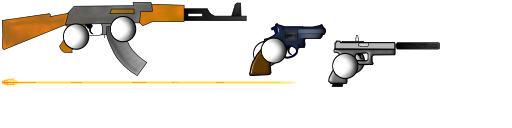
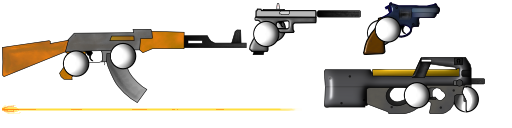
P90 and building changes.

diff --git a/src/co/uk/epicguru/map/building/BuildingManager.java b/src/co/uk/epicguru/map/building/BuildingManager.java
@@ -2,12 +2,14 @@ package co.uk.epicguru.map.building;
 
 import java.util.ArrayList;
 
+import com.badlogic.gdx.Input.Keys;
 import com.badlogic.gdx.graphics.g2d.Batch;
 import com.badlogic.gdx.math.Rectangle;
 import com.badlogic.gdx.math.Vector2;
 
 import co.uk.epicguru.input.Input;
 import co.uk.epicguru.main.Constants;
+import co.uk.epicguru.map.building.instances.WoodenBeam;
 import co.uk.epicguru.map.building.instances.WoodenFloor;
 
 public class BuildingManager {
@@ -49,10 +51,13 @@ public class BuildingManager {
 
 	public static void update(float delta){
 
-		if(placing == false){
+		if(placing == true){
 			if(placingObject == null){
-				placingObject = new WoodenFloor(new Vector2(Input.getMouseWorldX(), 0));					
-				//placingObject = new WoodenBeam(new Vector2(Input.getMouseWorldX(), 0));					
+				if(Input.isKeyDown(Keys.SPACE)){
+					placingObject = new WoodenFloor(new Vector2(Input.getMouseWorldX(), 0));					
+				}else{
+					placingObject = new WoodenBeam(new Vector2(Input.getMouseWorldX(), 0));					
+				}
 			}else{
 				// Do nothing, already set.
 			}
@@ -122,9 +127,9 @@ public class BuildingManager {
 						float placingWidth = placingObject.texture.getRegionWidth() / Constants.PPM;
 
 						// Within right side bounds
-						if(mousePos.x < rightSide + placingWidth / 2 && mousePos.x >= rightSide - placingWidth / 2){							
+						if(mousePos.x < rightSide + placingWidth / 2 && mousePos.x >= rightSide - placingWidth / 2 && mousePos.y < object.body.getPosition().y + object.texture.getRegionHeight() / Constants.PPM * 2 && mousePos.y > object.body.getPosition().y - object.texture.getRegionHeight() / Constants.PPM * 2){							
 							foundEdge = true;
-							snapValue.a.set(rightSide + placingWidth / 2, 0);
+							snapValue.a.set(rightSide + placingWidth / 2, object.body.getPosition().y - placingObject.texture.getRegionHeight() / Constants.PPM / 2);
 							snapValue.b = isValidPos(objects);
 							if(place){
 								if(snapValue.b){
@@ -139,10 +144,10 @@ public class BuildingManager {
 									}
 								}
 							}
-						}else if(mousePos.x > leftSide - placingWidth / 2 && mousePos.x <= leftSide + placingWidth / 2){	
+						}else if(mousePos.x > leftSide - placingWidth / 2 && mousePos.x <= leftSide + placingWidth / 2 && mousePos.y < object.body.getPosition().y + object.texture.getRegionHeight() / Constants.PPM * 2 && mousePos.y > object.body.getPosition().y - object.texture.getRegionHeight() / Constants.PPM * 2){	
 							// Left side bounds
 							foundEdge = true;
-							snapValue.a.set(leftSide - placingWidth / 2, 0);
+							snapValue.a.set(leftSide - placingWidth / 2, object.body.getPosition().y - placingObject.texture.getRegionHeight() / Constants.PPM / 2);
 							snapValue.b = isValidPos(objects);
 							if(place){
 								if(snapValue.b){
@@ -166,46 +171,51 @@ public class BuildingManager {
 				snapValue.b = isValidPos(objects);
 			}
 		}
-		
+
 		// BEAMS
 		if(placingObject instanceof BuildingBeam){
 			snapValue.a.set(mousePos.x, 0);
 			snapValue.b = false;
-			
+
 			for(BuildingObject object : objects){
 				if(object instanceof BuildingFloor){
 					// FLOOR
 					BuildingFloor floor = (BuildingFloor)object;
-					boolean hasRight = floor.connectedRight != null;
-					boolean hasLeft = floor.connectedLeft != null;
-					if(hasRight){
-						if(mousePos.x > floor.body.getPosition().x){
-							if(mousePos.x < floor.body.getPosition().x + floor.texture.getRegionWidth()){
-								if(mousePos.y > floor.getBody().getPosition().y){
-									if(mousePos.y < floor.getBody().getPosition().y + placingObject.texture.getRegionHeight() / Constants.PPM){
-										// We are in bounds
-										snapValue.a.set(object.body.getPosition().x + object.texture.getRegionWidth() / Constants.PPM / 2, object.body.getPosition().y + object.texture.getRegionHeight() / Constants.PPM / 2);
-										snapValue.b = true;
-									}
+					if(mousePos.x > floor.body.getPosition().x){
+						if(mousePos.x < floor.body.getPosition().x + floor.texture.getRegionWidth() / Constants.PPM){
+							if(mousePos.y > floor.getBody().getPosition().y){
+								if(mousePos.y < floor.getBody().getPosition().y + placingObject.texture.getRegionHeight() / Constants.PPM){
+									// We are in bounds
+									snapValue.a.set(object.body.getPosition().x + object.texture.getRegionWidth() / Constants.PPM / 2, object.body.getPosition().y + object.texture.getRegionHeight() / Constants.PPM / 2);
+									snapValue.b = isValidPos(objects);
 								}
 							}
 						}
-					}else if(hasLeft){
-						if(mousePos.x < floor.body.getPosition().x){
-							if(mousePos.x > floor.body.getPosition().x - floor.texture.getRegionWidth()){
-								if(mousePos.y > floor.getBody().getPosition().y){
-									if(mousePos.y < floor.getBody().getPosition().y + placingObject.texture.getRegionHeight() / Constants.PPM){
-										// We are in bounds
-										snapValue.a.set(object.body.getPosition().x - object.texture.getRegionWidth() / Constants.PPM / 2, object.body.getPosition().y + object.texture.getRegionHeight() / Constants.PPM / 2);
-										snapValue.b = true;
-									}
+					}
+					if(mousePos.x < floor.body.getPosition().x){
+						if(mousePos.x > floor.body.getPosition().x - floor.texture.getRegionWidth() / Constants.PPM){
+							if(mousePos.y > floor.getBody().getPosition().y){
+								if(mousePos.y < floor.getBody().getPosition().y + placingObject.texture.getRegionHeight() / Constants.PPM){
+									// We are in bounds
+									snapValue.a.set(object.body.getPosition().x - object.texture.getRegionWidth() / Constants.PPM / 2, object.body.getPosition().y + object.texture.getRegionHeight() / Constants.PPM / 2);
+									snapValue.b = isValidPos(objects);
 								}
 							}
 						}
 					}
 				}
+				if(object instanceof BuildingBeam){
+					if(object == placingObject)
+						continue;
+					rect.set(object.body.getPosition().x - placingObject.texture.getRegionWidth() / Constants.PPM / 2, object.body.getPosition().y + object.texture.getRegionHeight() / Constants.PPM / 2, placingObject.texture.getRegionWidth() / Constants.PPM * 2, placingObject.texture.getRegionHeight() / Constants.PPM);
+					if(rect.contains(mousePos)){
+						// Good to go on top of beam.
+						snapValue.a.set(object.body.getPosition().x, object.body.getPosition().y + object.texture.getRegionHeight() / Constants.PPM / 2);
+						snapValue.b = isValidPos(objects);
+					}
+				}
 			}
-			
+
 		}
 
 		return snapValue;
@@ -229,7 +239,7 @@ public class BuildingManager {
 		}
 		return validPos;
 	}
-	
+
 	private static BuildingObject getFloorToLeft(ArrayList<BuildingObject> objects){
 		float x = placingObject.body.getPosition().x;
 		for(BuildingObject object : objects){
@@ -241,7 +251,7 @@ public class BuildingManager {
 		}
 		return null;
 	}
-	
+
 	private static BuildingObject getFloorToRight(ArrayList<BuildingObject> objects){
 		float x = placingObject.body.getPosition().x;
 		for(BuildingObject object : objects){

diff --git a/src/co/uk/epicguru/map/building/BuildingFloor.java b/src/co/uk/epicguru/map/building/BuildingFloor.java
@@ -36,6 +36,7 @@ public abstract class BuildingFloor extends BuildingObject {
 		FixtureDef fixture = new FixtureDef();
 		fixture.shape = shape;
 		fixture.filter.groupIndex = -123;
+		fixture.isSensor = true;
 		setBody(Day100.map.world.createBody(def));
 		getBody().createFixture(fixture);
 	}
@@ -68,6 +69,7 @@ public abstract class BuildingFloor extends BuildingObject {
 	public void place(Vector2 position){
 		getBody().setTransform(position.set(position.x, position.y + texture.getRegionHeight() / 2 / Constants.PPM), 0);
 		placed = true;
+		getBody().getFixtureList().get(0).setSensor(false);
 	}
 	
 	public void update(float delta){

diff --git a/src/co/uk/epicguru/map/building/BuildingBeam.java b/src/co/uk/epicguru/map/building/BuildingBeam.java
@@ -30,6 +30,7 @@ public abstract class BuildingBeam extends BuildingObject {
 		FixtureDef fixture = new FixtureDef();
 		fixture.shape = shape;
 		fixture.filter.groupIndex = -123;
+		fixture.isSensor = true;
 		setBody(Day100.map.world.createBody(def));
 		getBody().createFixture(fixture);
 	}
@@ -44,6 +45,7 @@ public abstract class BuildingBeam extends BuildingObject {
 	public void place(Vector2 position){
 		getBody().setTransform(position.set(position.x, position.y + texture.getRegionHeight() / 2 / Constants.PPM), 0);
 		placed = true;
+		getBody().getFixtureList().get(0).setSensor(false);
 	}
 	
 	public void update(float delta){

diff --git a/src/co/uk/epicguru/map/Map.java b/src/co/uk/epicguru/map/Map.java
@@ -133,7 +133,7 @@ public final class Map {
 
 	private void setupLighting(){
 		rayHandler = new RayHandler(world);
-		sun = new DirectionalLight(rayHandler, Constants.RAYS * 2, new Color(0.0f, 0.0f, 0.0f, 0.35f), -90);
+		sun = new DirectionalLight(rayHandler, Constants.RAYS * 2, new Color(0.0f, 0.0f, 0.0f, 0.9f), -90);
 	}
 
 	public boolean loadProperties(){

diff --git a/src/co/uk/epicguru/player/weapons/instances/P90.java b/src/co/uk/epicguru/player/weapons/instances/P90.java
@@ -1,0 +1,11 @@
+package co.uk.epicguru.player.weapons.instances;
+
+import co.uk.epicguru.player.weapons.GunDefinition;
+
+public class P90 extends GunDefinition {
+
+	public P90() {
+		super("P90");
+	}
+
+}
